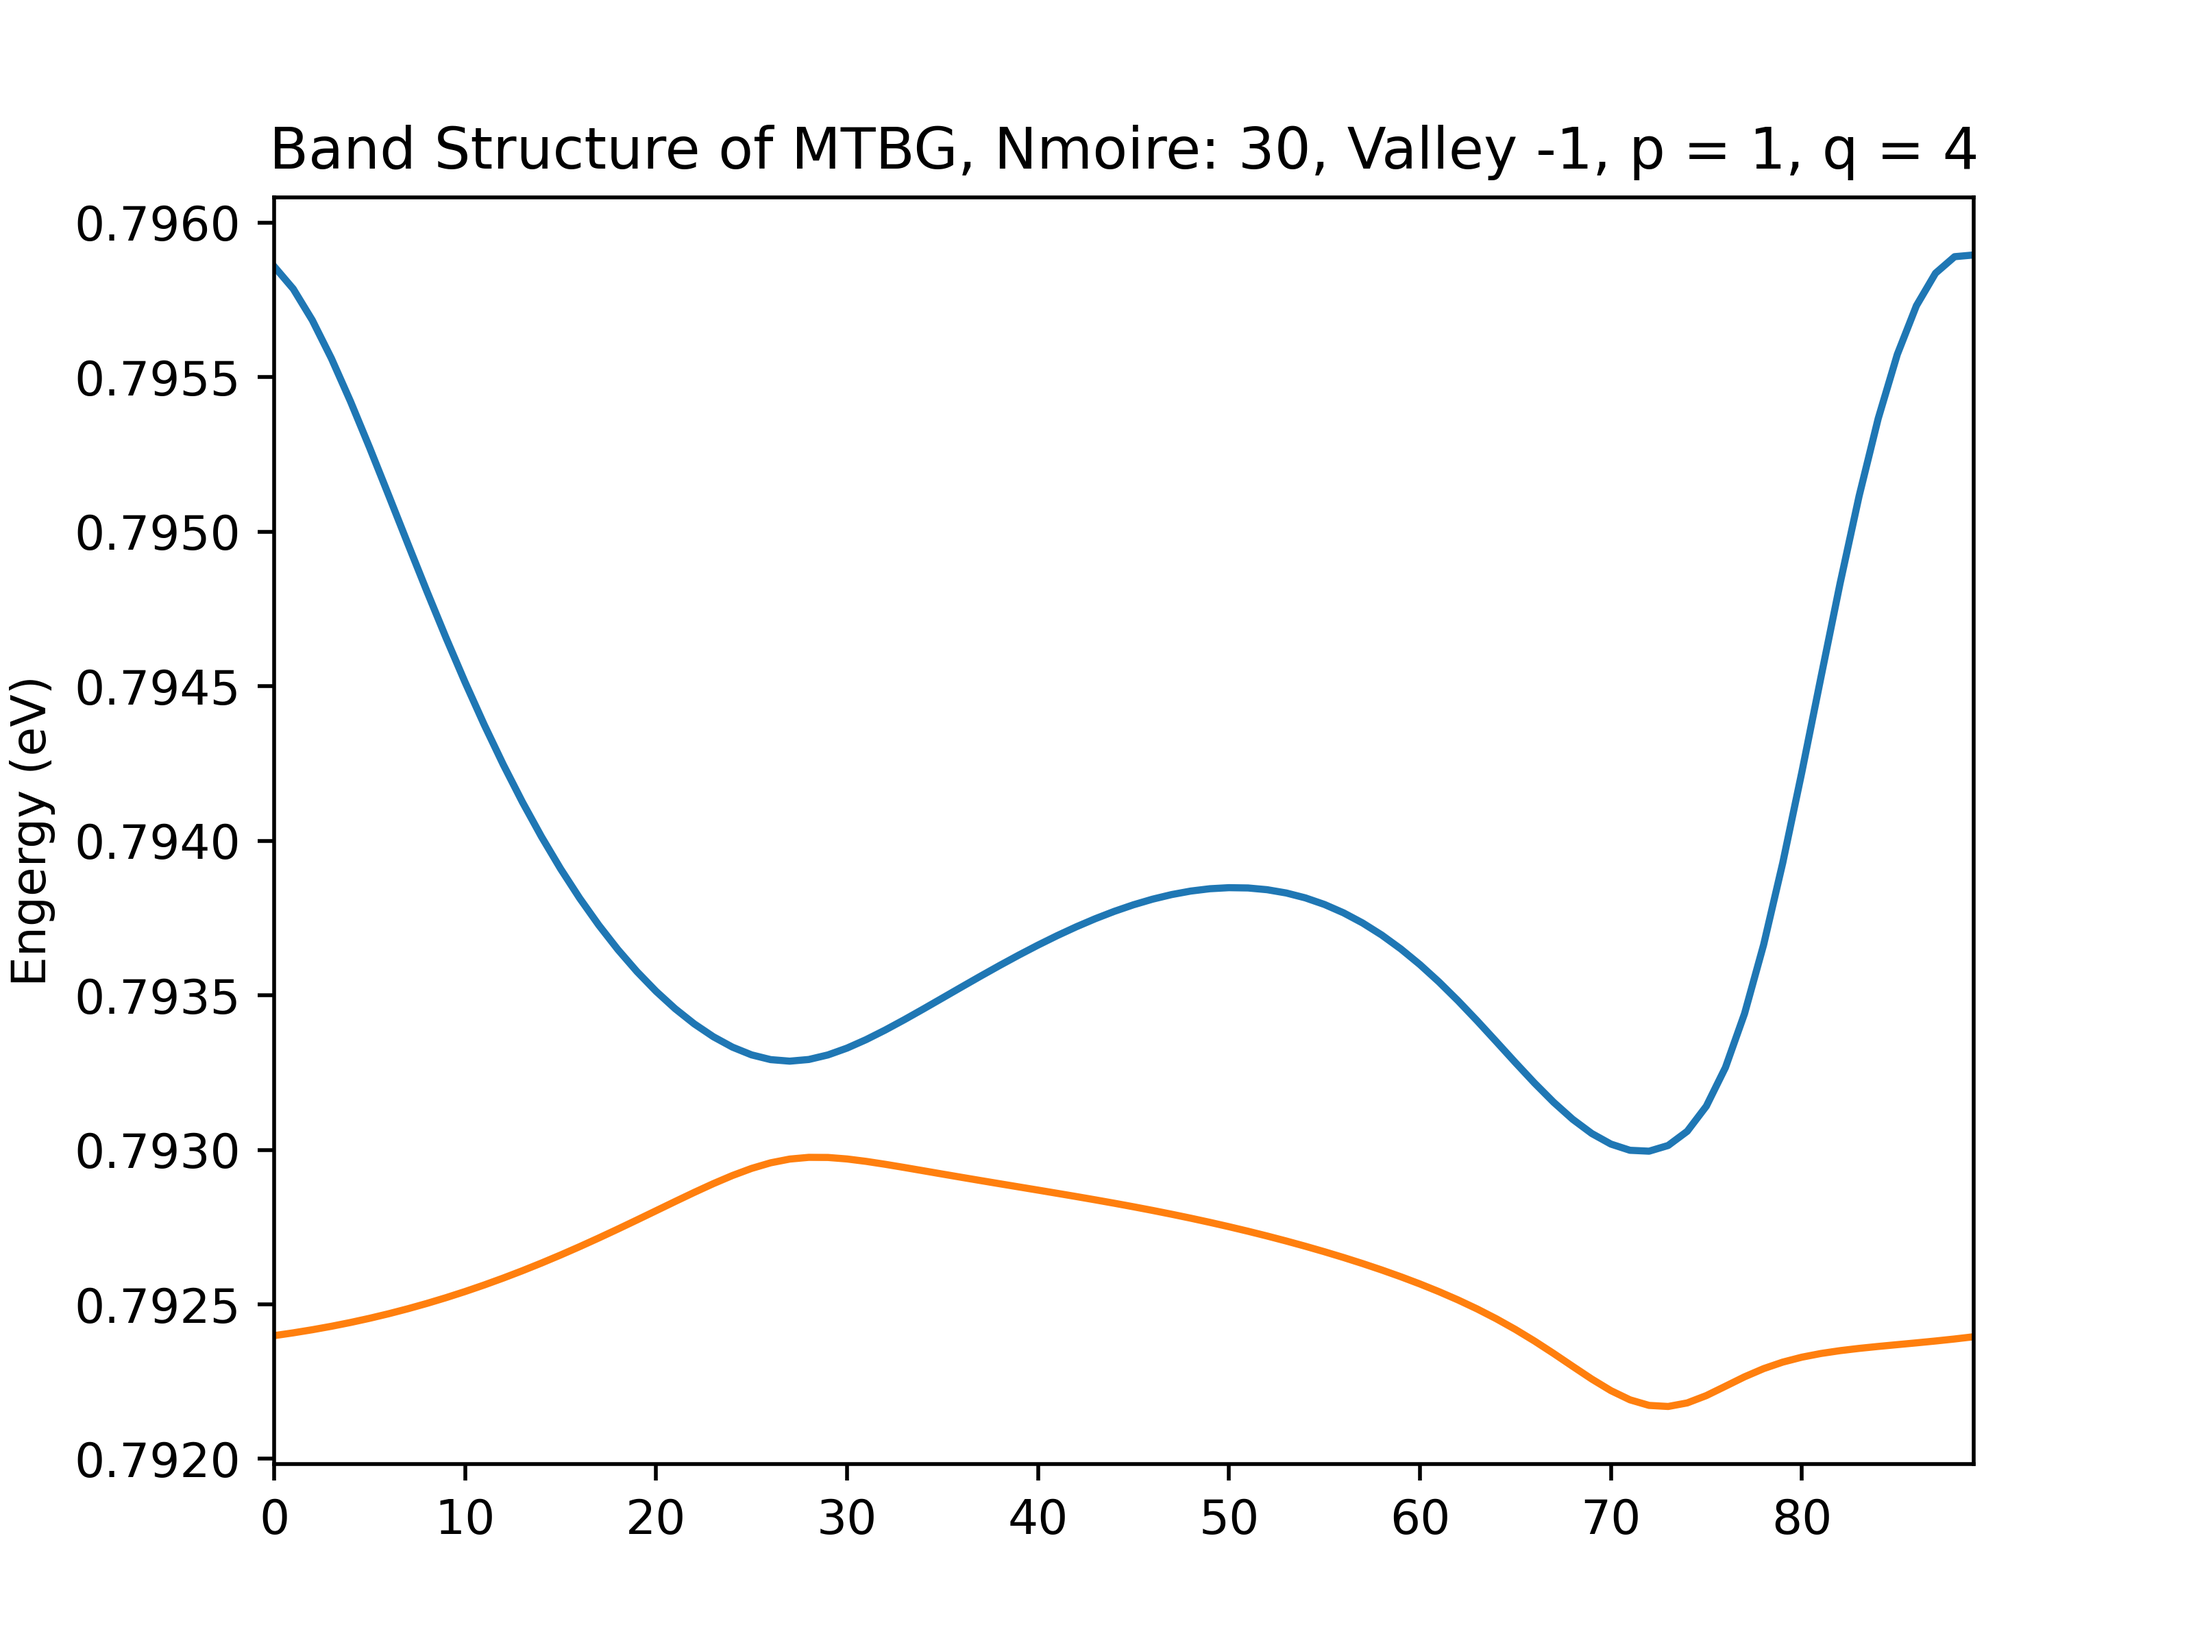
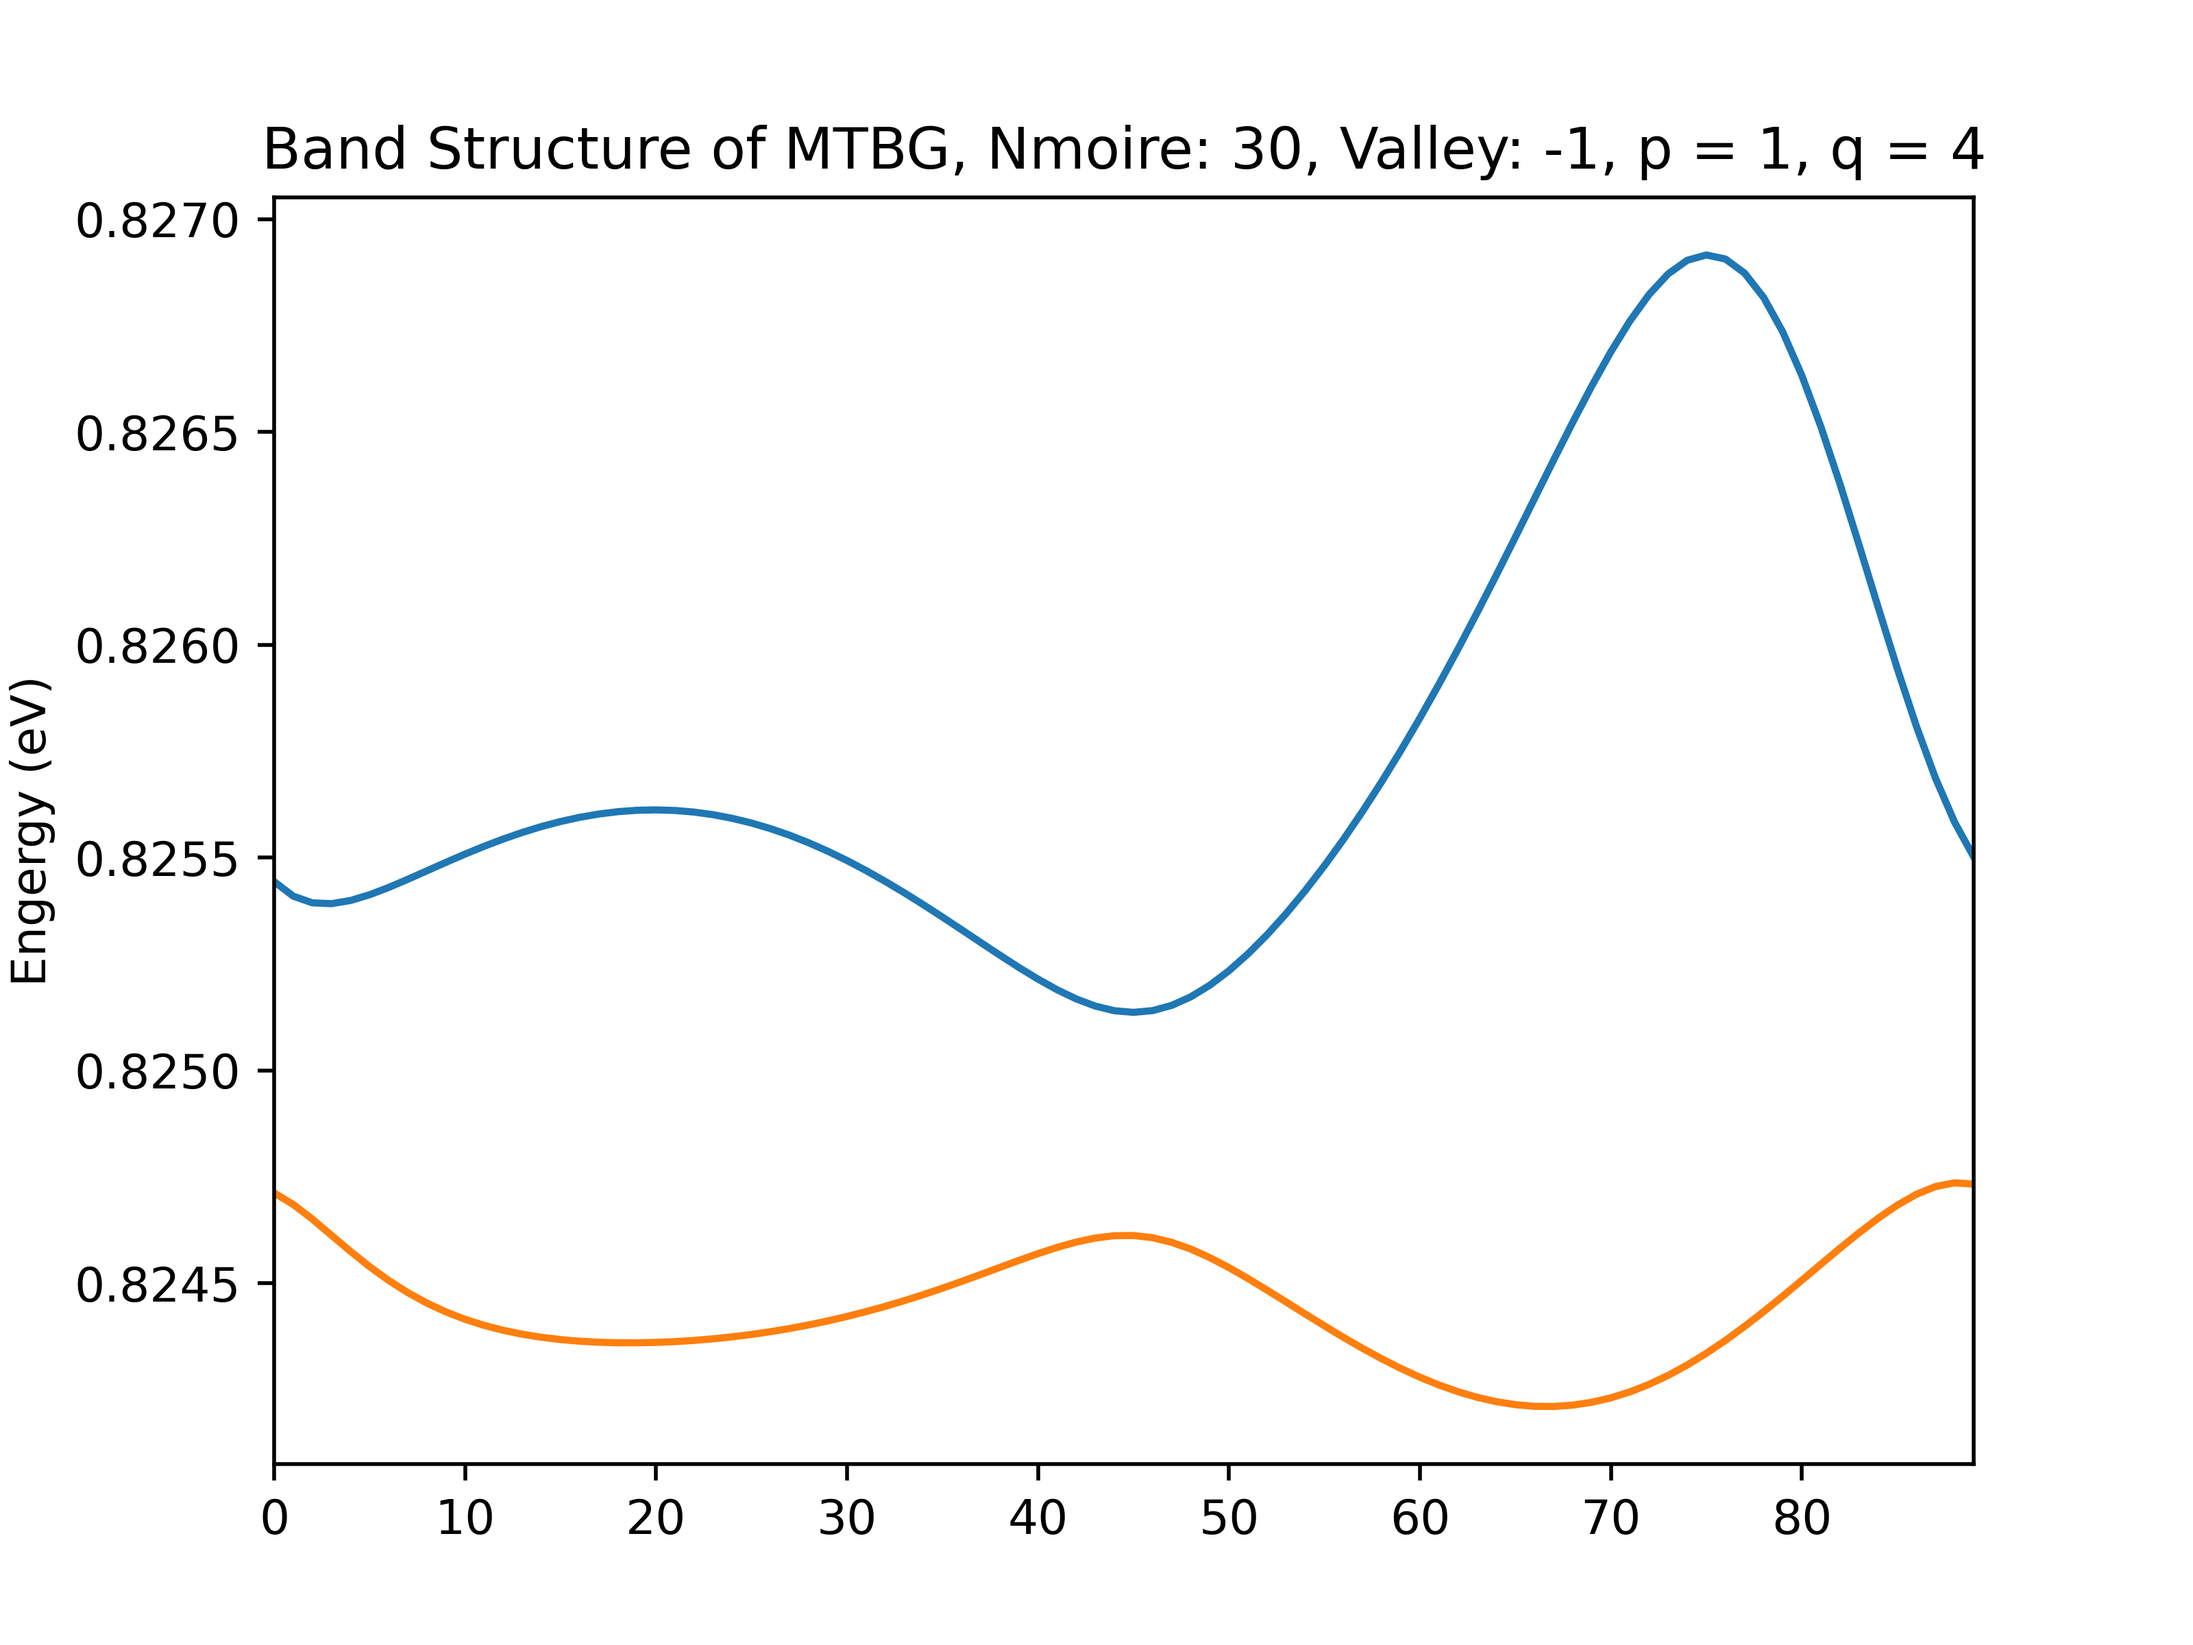
[new] new tb parameters

diff --git a/utils/mag_tb_disp.py b/utils/mag_tb_disp.py
@@ -17,7 +17,7 @@ qlist = [i for i in range(2, 10)]
 q = 8
 
 for q in qlist:
-    (emesh, dmesh) = mgtb.mag_tb_solver(n_moire, n_g, n_k, VALLEY_1, p, q, disp=True)
+    (emesh, dmesh) = mgtb.mag_tb_solver(n_moire, n_g, n_k, VALLEY_2, p, q, disp=True)
     emesh = np.array(emesh)
     dmesh = np.array(dmesh)
     xmax  = emesh.shape[0]
@@ -35,6 +35,6 @@ for q in qlist:
     plt.plot(kline, emesh[:, n_band//2-1])
 
     ax.set_ylabel("Engergy (eV)")
-    ax.set_title("Band Structure of MTBG, Nmoire: "+str(n_moire)+", Valley: 1, p = 1, q = "+str(q))
-    plt.savefig("../fig/mag_band_n_"+str(n_moire)+"_v_1_p_1_q_"+str(q)+".png", dpi=500)
+    ax.set_title("Band Structure of MTBG, Nmoire: "+str(n_moire)+", Valley: -1, p = 1, q = "+str(q))
+    plt.savefig("../fig/mag_band_n_"+str(n_moire)+"_v_-1_p_1_q_"+str(q)+".png", dpi=500)
     plt.clf()

diff --git a/utils/tb_disp.py b/utils/tb_disp.py
@@ -10,7 +10,7 @@ import tightbinding.moire_tb as tbtb
 n_moire = 30
 n_g = 5
 n_k = 60
-valley = -1
+valley = 1
 n_band = 244
 
 (emesh, dmesh, kline) = tbtb.tightbinding_solver(n_moire, n_g, n_k, valley, disp=True)

diff --git a/magnetic/moire_magnetic_tb.py b/magnetic/moire_magnetic_tb.py
@@ -7,7 +7,7 @@ from itertools import product
 
 
 # eV
-VPI_0 = -2.7
+VPI_0 = -2.81
 # eV
 VSIGMA_0 = 0.48
 # flux quantum (SI unit in Wb)

diff --git a/tightbinding/moire_tb.py b/tightbinding/moire_tb.py
@@ -6,7 +6,7 @@ from scipy import sparse
 from itertools import product
 
 # eV
-VPI_0 = -2.7
+VPI_0 = -2.81
 # eV
 VSIGMA_0 = 0.48
 
